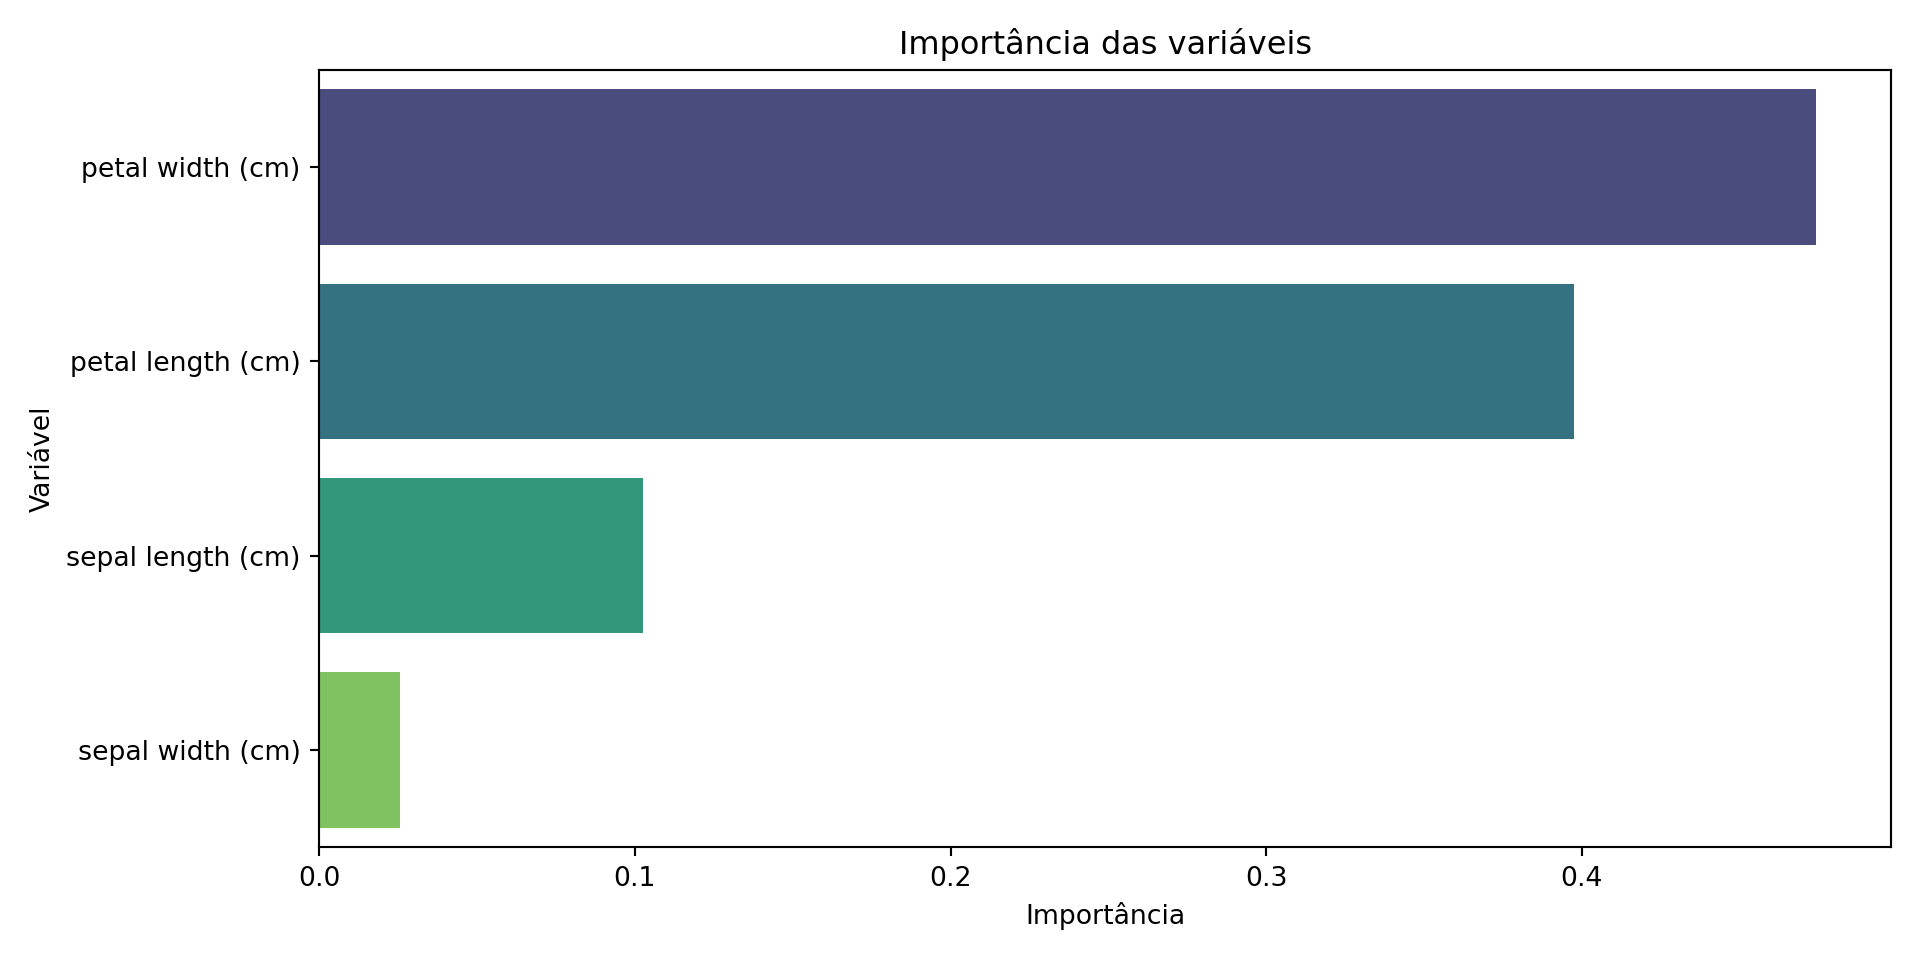
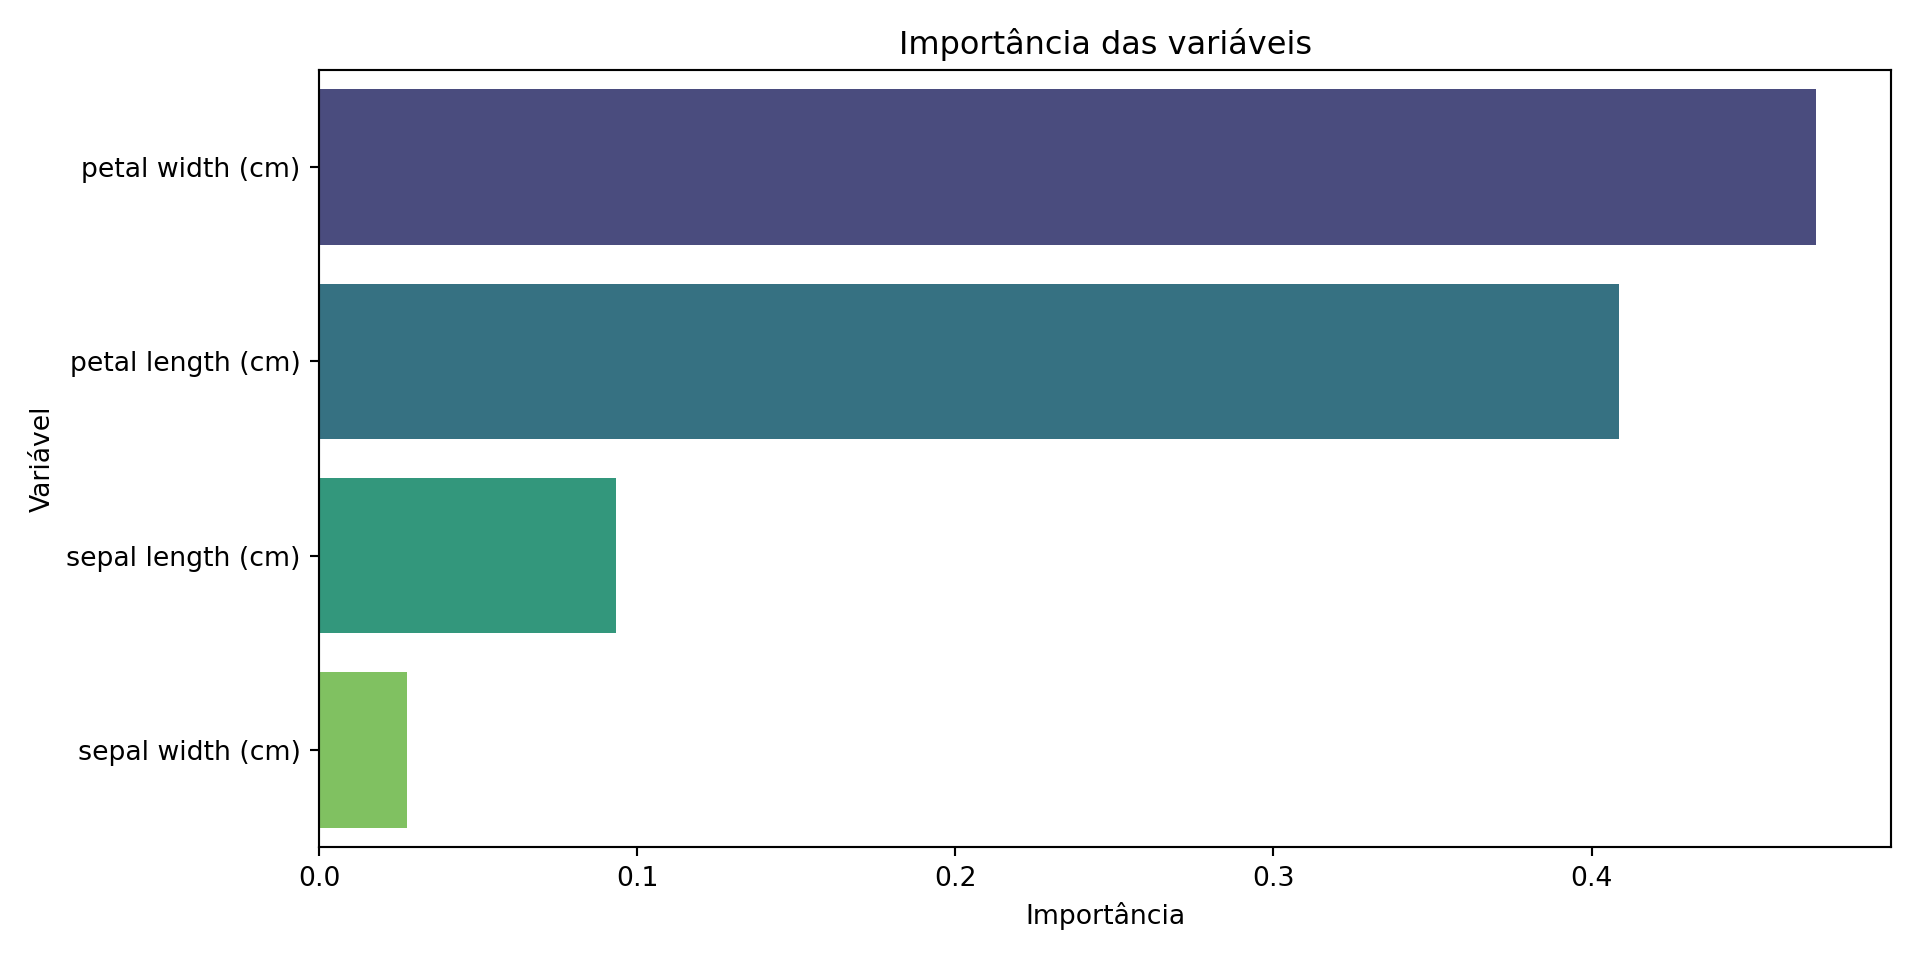
atualiza semana 8

diff --git a/docs/cronograma.html b/docs/cronograma.html
@@ -556,10 +556,32 @@ ul.task-list li input[type="checkbox"] {
 <td style="text-align: center;"><a href=".\material_complementar/vazamento.html" aria-label="Vazamento de dados" title="Vazamento de dados"><i class="fa-solid fa-folder fa-2xl" aria-label="folder"></i></a></td>
 <td style="text-align: center;"></td>
 </tr>
+<tr class="odd">
+<td style="text-align: center;"><a href="programacao/semana-8.html">8</a></td>
+<td>Ter, 19/05</td>
+<td>Análise Preditiva</td>
+<td style="text-align: center;"></td>
+<td style="text-align: center;"><a href=".\aulas/Analise_preditiva/preditiva.html#/exemplo-compra-de-um-computador-18" aria-label="Árvores de decisão" title="Árvores de decisão"><i class="fa-solid fa-file-powerpoint fa-2xl" aria-label="file-powerpoint"></i></a></td>
+<td style="text-align: center;"></td>
+<td style="text-align: center;"></td>
+<td style="text-align: center;"></td>
+<td style="text-align: center;"></td>
+<td style="text-align: center;"></td>
+</tr>
+<tr class="even">
+<td style="text-align: center;"></td>
+<td>Qui, 21/05</td>
+<td>Análise Preditiva</td>
+<td style="text-align: center;"></td>
+<td style="text-align: center;"><a href=".\aulas/Analise_preditiva/preditiva.html#/redes-neurais-artificiais" aria-label="Redes Neurais Artificiais" title="Redes Neurais Artificiais"><i class="fa-solid fa-file-powerpoint fa-2xl" aria-label="file-powerpoint"></i></a></td>
+<td style="text-align: center;"></td>
+<td style="text-align: center;"></td>
+<td style="text-align: center;"></td>
+<td style="text-align: center;"></td>
+<td style="text-align: center;"></td>
+</tr>
 </tbody>
 </table>
-<!-- |  [8](programacao/semana-8.html)  | Ter, 24/06 | Análise Preditiva | | [](/aulas/Analise_preditiva/preditiva.html#/random-forests "Algoritmo Random Forests"){aria-label="Algoritmo Random Forests"} | | | | | |  -->
-<!-- |                           | Qui, 26/06 | Análise Preditiva | | [](/aulas/Analise_preditiva/preditiva.html#/redes-neurais-artificiais "Redes Neurais Artificiais"){aria-label="Redes Neurais Artificiais"} | | | | | | -->
 <!-- |  [9](programacao/semana-9.html)  | Ter, 01/07 | Construindo workflows preditivos usando a base de dados Space Titanic | |  | | |[](/analise_dados/space_titanic_workflow.html "Script análise de dados"){aria-label="Script análise de dados"} |  |[](/projeto/projeto_avaliativo.html#fase-3-construção-e-avaliação-de-modelos-preditivos "Projeto: fase 3"){aria-label="Projeto: fase 3"}| -->
 <!-- |                           | Qui, 03/07 | Construindo workflows preditivos usando a base de dados Space Titanic | |  | | |[](/analise_dados/space_titanic_workflow.html#visualizando-resultados "Script análise de dados"){aria-label="Script análise de dados"} | | | -->
 <!-- |  [10](programacao/semana-10.html)  | Ter, 08/07 | Feriado: Não haverá aula | |  | | ||  || -->

diff --git a/docs/aulas/Analise_preditiva/preditiva.html b/docs/aulas/Analise_preditiva/preditiva.html
@@ -3014,7 +3014,7 @@ Idade<br>
 <div class="sourceCode cell-code" id="cb29"><pre class="sourceCode numberSource python number-lines code-with-copy"><code class="sourceCode python"><span id="cb29-1"><a></a>y_pred <span class="op">=</span> rf_model.predict(X_test)</span>
 <span id="cb29-2"><a></a>accuracy_score(y_test, y_pred)</span></code><button title="Copy to Clipboard" class="code-copy-button"><i class="bi"></i></button></pre></div>
 <div class="cell-output cell-output-stdout">
-<pre><code>0.9777777777777777</code></pre>
+<pre><code>0.9555555555555556</code></pre>
 </div>
 </div>
 </div>
@@ -3084,7 +3084,7 @@ Idade<br>
 <div class="sourceCode cell-code" id="cb34"><pre class="sourceCode numberSource python number-lines code-with-copy"><code class="sourceCode python"><span id="cb34-1"><a></a>y_pred <span class="op">=</span> reg.predict(X_test)</span>
 <span id="cb34-2"><a></a>mean_squared_error(y_test, y_pred, squared<span class="op">=</span><span class="va">True</span>)  <span class="co"># MSE</span></span></code><button title="Copy to Clipboard" class="code-copy-button"><i class="bi"></i></button></pre></div>
 <div class="cell-output cell-output-stdout">
-<pre><code>0.25914641355874296</code></pre>
+<pre><code>0.25822356505164296</code></pre>
 </div>
 </div>
 </div>
@@ -3228,13 +3228,13 @@ Margem = <span class="math inline">\(d_1 + d_2\)</span>
 <span style="font-size:70px;">👉</span> Para encontrar o <strong>hiperplano ótimo</strong>, caímos em um problema de otimização com restrição, que pode ser resolvido utilizando a técnica dos <strong>Multiplicadores de Lagrange</strong>!
 </p>
 </div></div>
-</section><section id="kernel-trick-separando-o-inseparável" class="slide level2"><h2>Kernel Trick: separando o inseparável</h2>
+</section><section id="kernel-trick" class="slide level2"><h2>Kernel Trick</h2>
 <p>Mas e se tivermos problemas <strong>não linearmente separáveis</strong>?</p>
 <div class="quarto-figure quarto-figure-center">
 <figure><p><img data-src="../..\images/rf/nLin.png" class="quarto-figure quarto-figure-center" width="800"></p>
 </figure>
 </div>
-</section><section id="kernel-trick-separando-o-inseparável-1" class="slide level2"><h2>Kernel Trick: separando o inseparável</h2>
+</section><section id="kernel-trick-1" class="slide level2"><h2>Kernel Trick</h2>
 <p>O SVM é um algoritmo que inicialmente trabalha com dados <strong>linearmente separáveis</strong>. No entanto, muitas vezes encontramos conjuntos de dados que não podem ser separados por um <strong>hiperplano linear</strong>. É aí que entra o <strong>Kernel Trick</strong>.</p>
 <div class="fragment">
 <p>O <strong>Kernel Trick</strong> (Truque do Kernel) nos permite <strong>mapear os dados</strong> para um espaço de características de <strong>dimensão superior</strong>, onde se tornam linearmente separáveis.</p>
@@ -3242,12 +3242,12 @@ Margem = <span class="math inline">\(d_1 + d_2\)</span>
 <div class="fragment">
 <p>Isso é feito através de uma <strong>função</strong> chamada <strong>kernel</strong>, que calcula o produto interno entre dois vetores nesse espaço de características.</p>
 </div>
-</section><section id="kernel-trick-separando-o-inseparável-2" class="slide level2"><h2>Kernel Trick: separando o inseparável</h2>
+</section><section id="kernel-trick-2" class="slide level2"><h2>Kernel Trick</h2>
 <div class="quarto-figure quarto-figure-center">
 <figure><p><img data-src="../..\images/rf/kernelTrick.png" class="quarto-figure quarto-figure-center" width="1400"></p>
 </figure>
 </div>
-</section><section id="kernel-trick-separando-o-inseparável-3" class="slide level2"><h2>Kernel Trick: separando o inseparável</h2>
+</section><section id="kernel-trick-3" class="slide level2"><h2>Kernel Trick</h2>
 <div class="columns">
 <div class="column" style="width:40%;">
 <p><br></p>